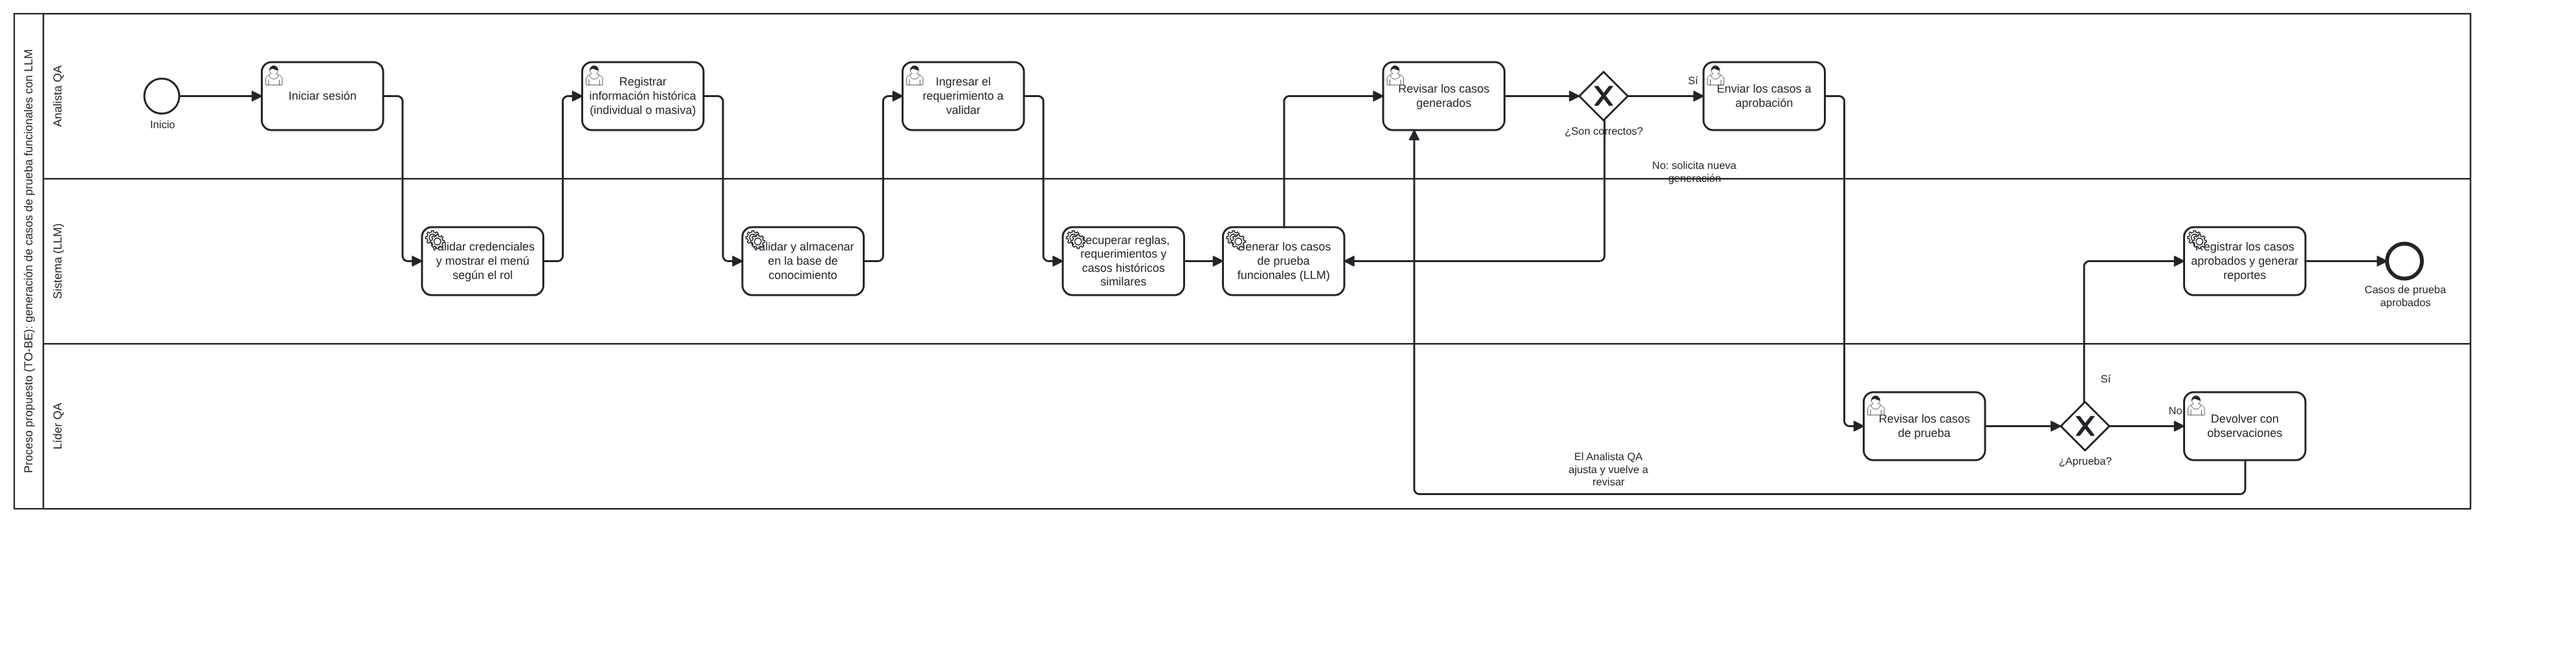
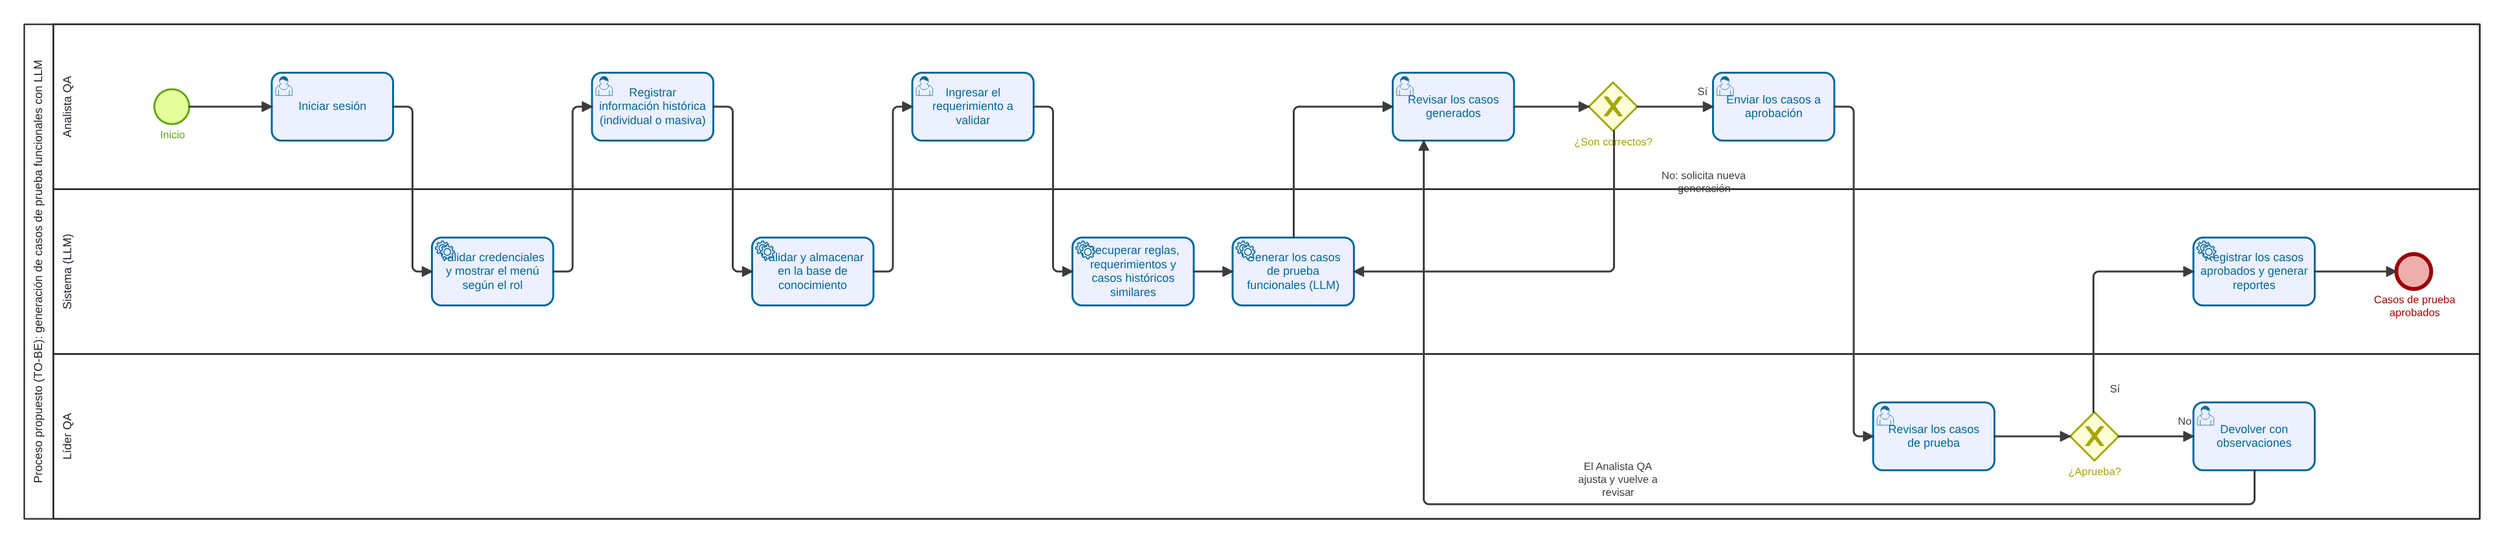
Vistas previas BPMN con los colores de Bizagi
Claude-Session: https://claude.ai/code/session_01YGwsrn5JfMt55fWsdR75wH

diff --git a/docs/bpmn/README.md b/docs/bpmn/README.md
@@ -21,5 +21,5 @@ También se abren en bpmn.io, Camunda Modeler y otras herramientas BPMN 2.0.
   "Identificar escenarios manualmente". "Corregir casos de prueba" está en el carril del Analista QA, que es quien corrige.
 - **TO-BE**: tareas de usuario para el Analista QA y el Líder QA, y tareas de servicio para el sistema.
   Cada tarea lleva su descripción en *Documentación*.
-- `png/`: vista previa de cada diagrama.
+- `png/`: vista previa de cada diagrama, con los colores por defecto de Bizagi (inicio verde, fin rojo, tareas celestes y compuertas amarillas).
 - `herramientas/generar_bpmn.py`: genera los archivos (`python3 herramientas/generar_bpmn.py .` desde esta carpeta).
